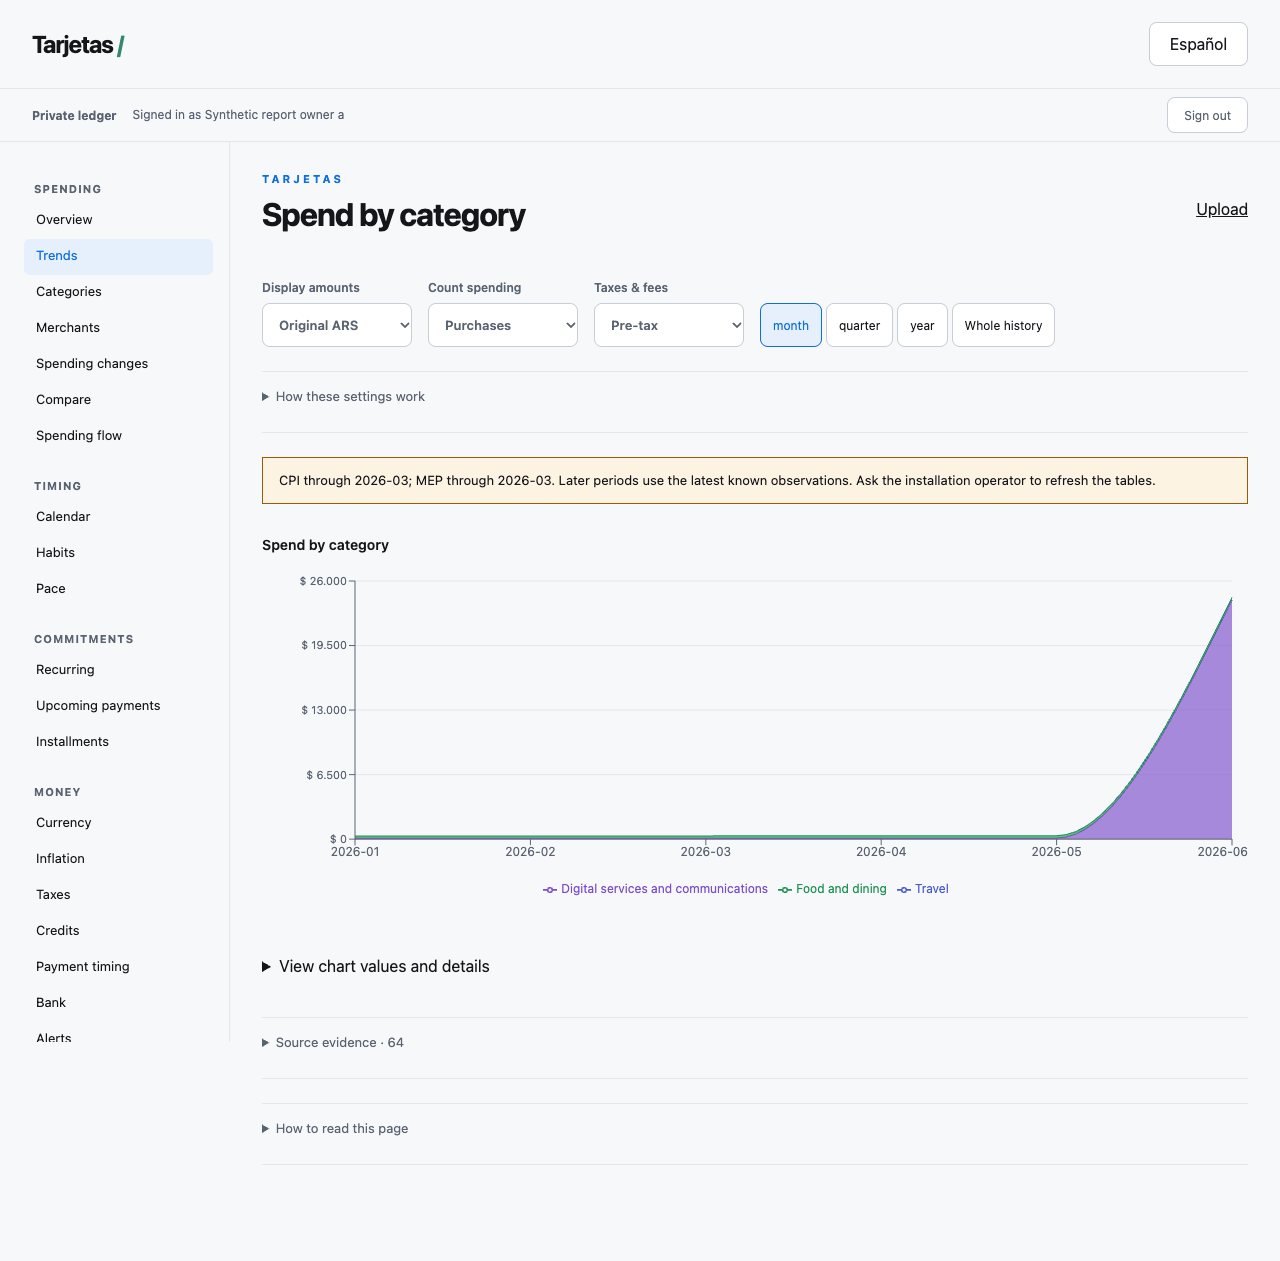
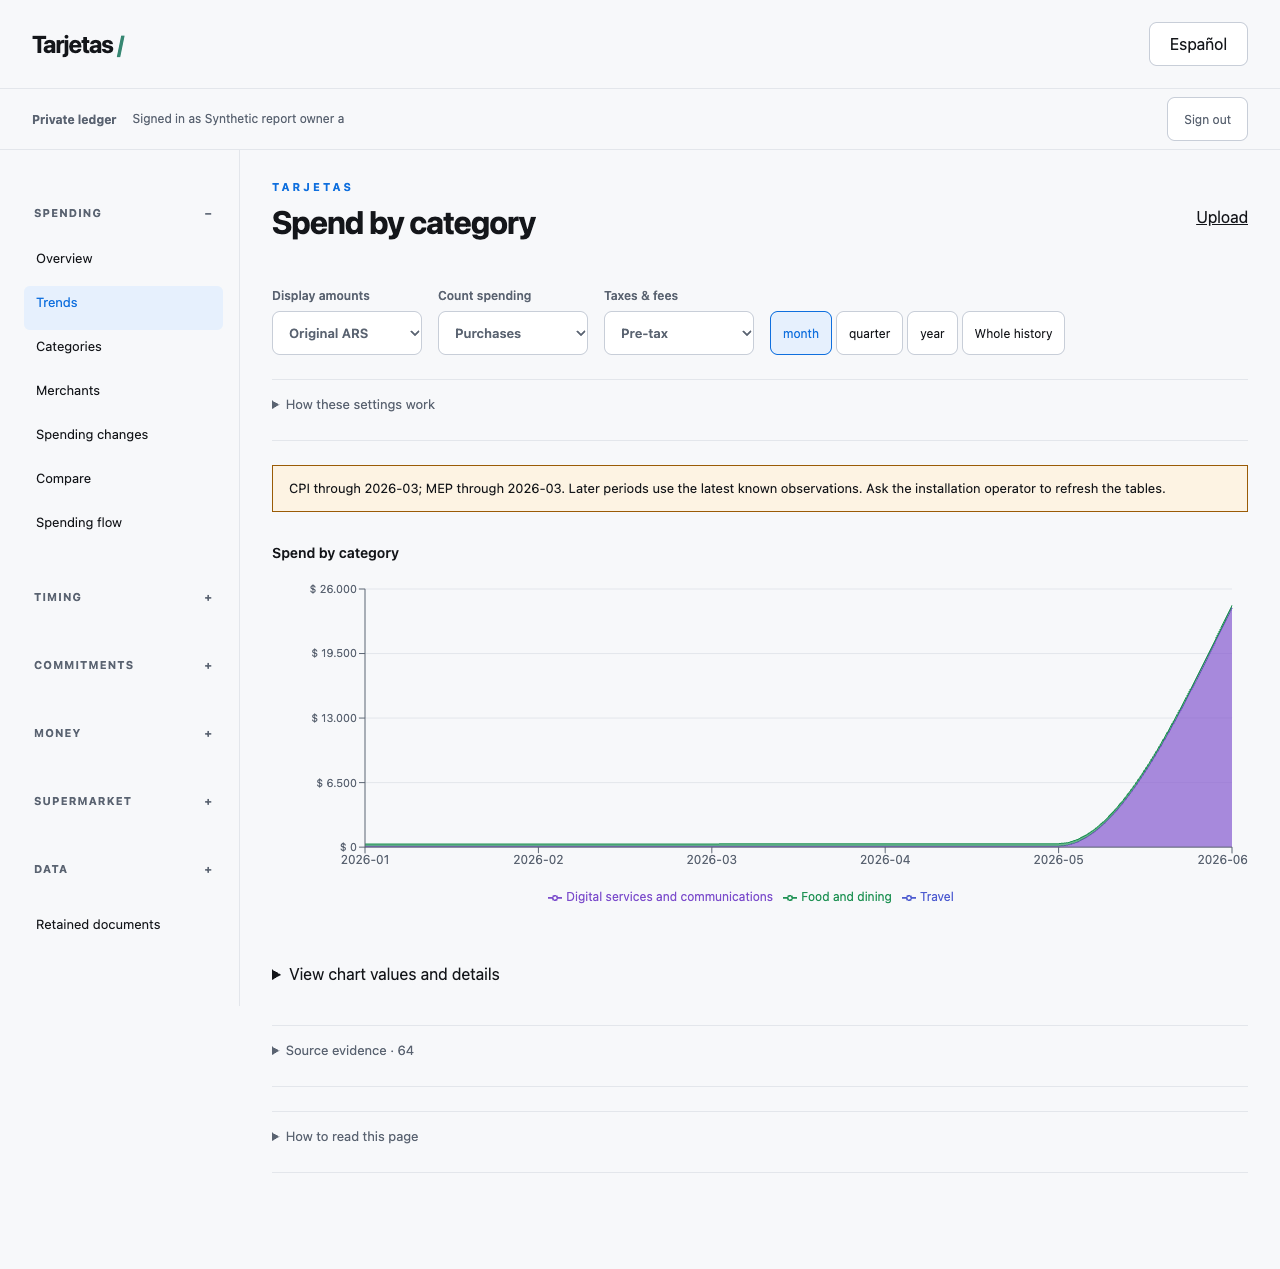
docs: record full handoff review and expanded runtime acceptance

diff --git a/docs/rebuild-implementation-progress.md b/docs/rebuild-implementation-progress.md
@@ -4,7 +4,9 @@ This implementation record supplements the frozen handoff. It does not change fi
 
 ## Current delivery status — November 7, 2026
 
-The independent PostgreSQL/Laravel/Sanctum API and React/TypeScript/Vite SPA are implemented, including all 32 financial destinations, private financial commands, retained statements/receipts/corrections, convergence, review workflows, reports, exports and owner-aware local recovery/reconstruction. **Local acceptance passes**: 75 backend tests / 12,909 assertions, 27 serial HTTPS Chromium journeys, all 3,239 frozen report leaves, private processing and independent production builds. Detailed final evidence and release limits appear at the end of this record. Earlier milestone counts and pending lists below describe their historical stage, not current outstanding work.
+The subsequent full handoff review found and fixed additional upload, recovery, retry, reference-readiness and presentation gaps. See **Full handoff review** below for the latest verification; the original signoff remains a dated milestone.
+
+The independent PostgreSQL/Laravel/Sanctum API and React/TypeScript/Vite SPA are implemented, including all 32 financial destinations, private financial commands, retained statements/receipts/corrections, convergence, review workflows, reports, exports and owner-aware local recovery/reconstruction. **Local acceptance passes**: 79 backend tests / 13,622 assertions, 29 serial HTTPS Chromium journeys plus the expanded 276-combination built-SPA/FPM report matrix, all 3,239 frozen report leaves, private processing and independent production builds. Detailed final evidence and release limits appear at the end of this record. Earlier milestone counts and pending lists below describe their historical stage, not current outstanding work.
 
 Production hosting, trusted production ingress/supervision, remote macOS processing placement and environment-specific deployment smoke remain explicitly deferred. Optional live provider processing remains disabled and untested against the external service. These are release obligations, not locally established capabilities. Registration/provisioning, live-data migration, merge and deployment are outside this delivery. Existing `web/`, frozen handoff files, private data and live services were preserved.
 
@@ -242,3 +244,42 @@ The captures [desktop light report](rebuild-evidence/reports-desktop-light.png) 
 ### Deferred production obligations
 
 Select and separately authorize production hosting and the private macOS processing execution/transport boundary. Then verify real first-ingress timing before any external buffering, deadline/cancellation transport, worker supervision, effective FPM limits, private roots, environment-specific domain/CORS/cookie settings and independent deployment/recovery smoke on that topology. Local same-host FPM acceptance does not establish remote or production behavior. Any live-data migration, deployment, production account provisioning or live external proposal-provider activation requires separate authorization. Both PRs remain drafts; this record does not authorize release.
+
+
+## Full handoff review — November 7, 2026
+
+Reviewed the current feature branch against the committed architecture, safeguards, financial/report fixtures, route matrix and operational obligations. The checkout remained on `feat/laravel-react-rebuild`; no project copy/worktree, main/dev integration, merge or deployment was performed. Frozen `docs/rebuild/` and `web/` remain unchanged.
+
+### Confirmed gaps and fixes
+
+- Final ingress metadata review reproduced caller-supplied forwarded port/prefix/server values reaching PHP. The edge now discards the complete `X-Forwarded-*` family before issuing its own trusted metadata; the actual signed TLS/PHP regression fails before this fix and passes afterward.
+- Raw multipart intake previously allowed extra files and more than the specified non-file overhead. Trusted ingress now validates the original framing before PHP can silently truncate it; Laravel independently validates parsed files/fields. Limits are one file, 32 parts, and 1 MiB total framing/non-file data. Exact 10/40 MiB maxima still pass; plus-one files remain HTTP 400 and excess envelope data is 413. Encoded/duplicate-slash route spellings cannot skip the raw guard. Missing actual-card input now returns `missing_card_identity`. Both handoff `/statements/import` and `/receipts/import` paths are supported and documented alongside the existing collection POST paths.
+- The independent FPM pool now matches the handoff's initial settings: uploads 40M, POST 48M, one file, input 120 seconds, execution 720 seconds and emergency termination 750 seconds. An actual private FastCGI probe verified the effective settings; original edge/phase budgets remain unchanged. The new guarded `tarjetas:readiness` operation performs bounded read-only local dependency/private-root/database probes, with explicit missing-runtime failure and no repair/migration.
+- A rejected concurrency response previously discarded the SPA command key. Rejection now retains it; only changed logical meaning or a completed success changes that identity. The regression fails against the previous client and passes against the fix.
+- Reference publication now permits an explicitly confirmed first release into an empty reference root, while refusing an implicit or stale empty expectation. Bootstrap returns real owner report months and reference status; upload shows stale/missing reference feedback. CPI and MEP latest months are reported independently. Release integrity refuses references that cannot value that owner's history without changing the frozen forward-fill behavior.
+- Actual recovery from published references exposed a path error: capture selected immutable release files but its final hash check addressed legacy root filenames. Capture now pins the selected paths and holds a nonblocking shared publication lock through coherent capture. The archive still restores portable IPC/MEP names. The synthetic recovery-only reset attests the empty private synchronization file separately; changed lock contents and unrelated extra files are refused before destructive SQL. Financial/identity/file attestation and target restrictions remain mandatory.
+- Native recurring ARS/USD amounts now retain their printed currency under every display mode. Currency history, native recurring totals and explicit MEP equivalence are visible. Added the omitted overview alert/due-date preview, calendar account details, weekday/ticket comparison charts and per-card financing rates. Report granularity changes remove incompatible periods while retaining the drill/modes. The expanded browser check also reproduced an uninterpolated Sankey period; both its heading and chart caption now resolve selected/all-history periods in English and Spanish. Evidence links open an exact owned journal, persist after refresh, and return 404 for an exclusively other-owner journal.
+- Desktop navigation now has the specified 240 px sidebar and accessible collapsible groups, opens the active group (including dynamic detail routes) and retains the mobile menu. Touch controls have the required minimum height. Browser journeys were updated to expand the group before navigating; the earlier always-expanded navigation assumption timed out and is not counted as passing evidence.
+- Optional proposal sanitization could strip a long amount into a surviving fraction (`1234567,89` → `,89`). A regression reproduces that boundary failure. Monetary/rate/date/payment-shaped strings are now rejected before identifier stripping as well as afterward; legitimate short brand digits remain allowed. Both provider boundaries are tested with fakes/stray requests prohibited. Live external providers remain disabled.
+
+### Review acceptance
+
+The completed results below supersede the earlier milestone counts. A slow-upload test originally asserted adjustable wall time; the expected 408 and approximately 180-second runner duration were observed, but the wall-time assertion failed. The test now asserts monotonic elapsed time and retains both clocks as diagnostics. No production timer was relaxed. The repeated nine-test ingress set passed, with the real upload expiring at 180.008 seconds monotonically.
+
+The real FPM/worker run using the corrected pool settings passed: 640.396-second success, 719.096-second normal processing timeout, and 720.014-second separately isolated watchdog timeout. The SQL audit proves one/zero/zero postings; descendants were reaped and private contexts released. The normal production budget guards remain enabled. Exact-clock fixture semantics and real wire timings remain distinct evidence.
+
+Production hosting, trusted production ingress/supervision, remote macOS processing placement and deployed domain/cookie/CORS/recovery smoke remain deferred by the user. No production readiness, external provider activation, live migration, merge or deployment is claimed.
+
+
+Completed review verification:
+
+- **79 backend tests / 13,622 assertions** passed on backend revision `2daf5bab45d39d189d70bc55ec521e6be0768ce4`, with matching PostgreSQL 18 tools explicitly enabling actual archive capture. This includes all unchanged native/report goldens, all 20 exact-clock deadline cases, raw SQL ownership/guards, concurrency, operator checks and real private processing. No test was counted as a database proof solely from controller rejection.
+- **29/29 serial HTTPS browser journeys passed in 3.3 minutes** (`qa-output/browser-handoff-review-final`). After the final display-only Sankey fix, the two affected report journeys passed again against an independently built SPA and real FPM over separate HTTPS origins. The enlarged matrix checked all **23 reports × 2 languages × 3 widths × 2 appearance schemes = 276 combinations** in 3.4 minutes, followed by the native-currency/navigation/period/journal/all-history-title journey. It waits for HTTP 200 report data and a mounted report before measuring, and rejects console/network failures, raw title placeholders and page overflow. Initial sampled-layout or loading-frame checks are not treated as equivalent proof. Selected-period captions and English/Spanish all-history headings pass.
+- Independent current frontend builds (ordinary output plus the FPM and recovery API configurations), TypeScript and **four Vitest tests** pass. Composer strict validation, Pint and the actual guarded local runtime readiness probe pass. The Vite main-chunk size advisory remains; builds succeed. No dependencies/global runtimes changed during this review.
+- **Nine ingress/FastCGI/upload/stream/liveness tests** pass, including the real monotonic 180.008-second upload guard. The updated raw-envelope path-normalization cases pass separately. The separate four-test real long FPM suite passes with the success/normal-timeout/isolated-watchdog timings and posting audit described above. Effective FPM values were read through the private FastCGI runtime probe, not inferred from CLI configuration.
[1 lines of base64/hex data omitted]
+- OpenAPI local references and operation IDs validate; all **41 operations** cover the actual versioned routes with no undocumented API route. Bootstrap months, reference readiness, nullable evidence fields, journal selection and both import paths now match the implementation. Package hashes, **278** static architecture checks and **37** rejected mutations pass; static evidence remains distinct from runtime acceptance.
+
+Frontend display/acceptance revision: `cc33f047552d98c9343a107a2497bbc3db120f1f`; its independent artifact uses the unchanged backend revision above. The reviewed desktop-light and mobile-Spanish-dark captures have been refreshed from the completed built-SPA/FPM matrix. There are no known outstanding local gaps from this review. Production topology, private remote processing transport, deployed smoke and any live provider activation remain unverified/deferred as stated above.
+
+Final forwarding-metadata hardening revision: `79104b4d78366ce1a55153bcfa3ed2e3ae143bee`. Its affected signed-hop TLS/PHP test passes; no phase, upload or original-request budget changed.
